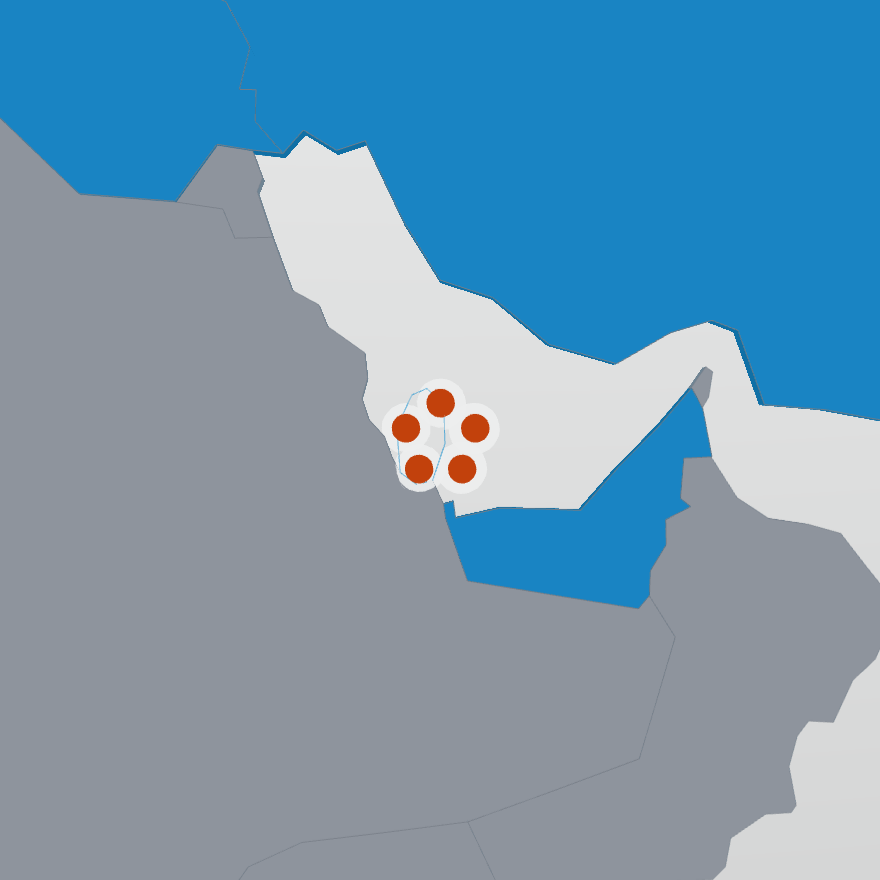
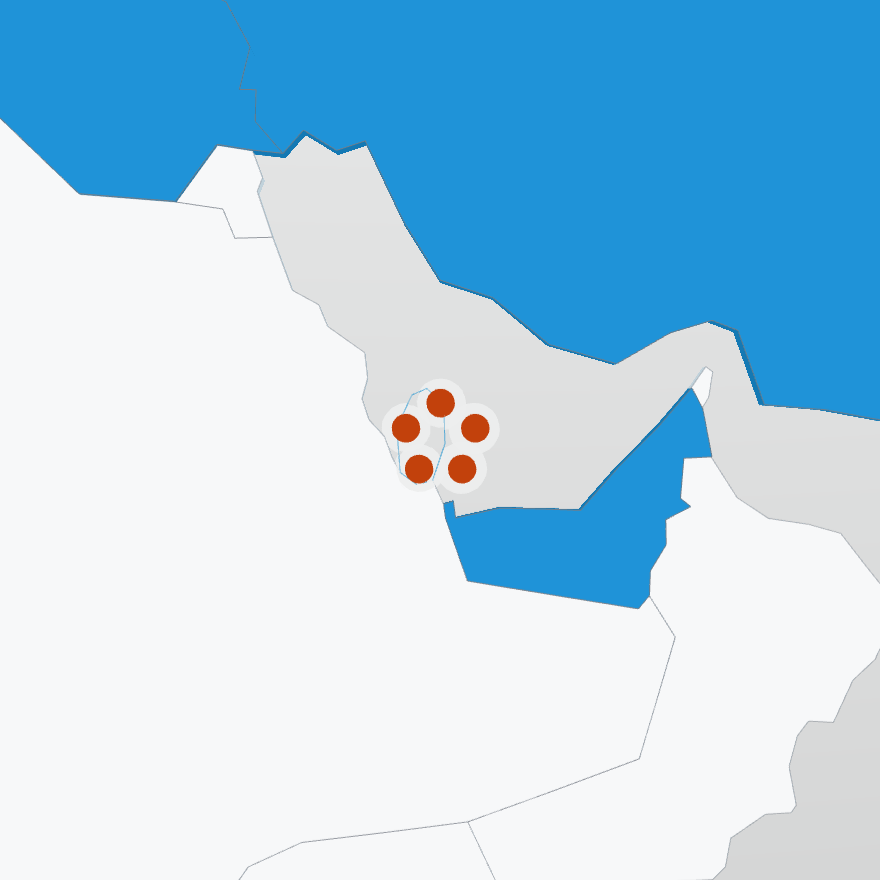
Fix what the light ground broke in the globe
One and two studies read as zero because the scale separated them from no data
by hue and not by lightness. Land the corpus does not reach was a mid grey at
L* 61 and one study was a mid blue at L* 53: eight points apart, so at the size
a country is drawn, or for anyone whose colour vision is reduced, they were the
same thing. Land is now near the page at L* 97, thirty nine points clear of the
lightest fill, and its shape is carried by the polygon stroke rather than by
the fill. tests/palette.py checks that ordering and that gap rather than
checking the fill against the page, which was the wrong question.

The weight now maps one study to the lightest blue and the corpus maximum to
the darkest. Under log1p the thin end of the corpus, where most countries sit,
was compressed into the middle of the scale and one study landed a fifth of the
way along it.

That also answers what the loud element was. It was not the ocean: it was the
unlit land, a mid grey covering most of the map. It recedes now and the blue is
the only weight left.

The two field list lines are gone from section five. They are the field lists
the corpus table and the record page are built from, a specification for a
component rather than prose, and they were being printed as two paragraphs of
middots. tests/homepage.py carries them in NOT_RENDERED with the other specs.

The three partners with no headshot get their initials in the same frame,
[…]

diff --git a/components/GlobeStage.tsx b/components/GlobeStage.tsx
@@ -62,6 +62,19 @@ function serverMode(): Mode {
 /** Opacity and a short lift. Both compositor properties, so nothing reflows. */
 function fade(el: HTMLElement | null, opacity: number, lift: number) {
   if (!el) return
+  /*
+    Only passages that are actually on screen are in the document at all. A
+    passage held at zero opacity was leaving a card shaped hole in the globe
+    behind it: its layer sits over the WebGL canvas and the rectangle underneath
+    is not repainted. Zero opacity does not release that layer, nor does
+    visibility hidden, nor display none, so the element is unmounted instead.
+    On the old dark ground the hole showed the page, which was near black, so
+    nobody saw it; it became obvious the moment the page turned white.
+
+    Unmounting is a React render, not a style write, so it happens when a
+    passage crosses in or out and not on every frame. Because passages leave
+    layout, no two share a stacked box: they are positioned singly.
+  */
   el.style.opacity = opacity.toFixed(3)
   el.style.transform = `translate3d(0, ${lift.toFixed(2)}px, 0)`
 }
@@ -101,7 +114,7 @@ const PASSAGES: Passage[] = [
     at: 'bottom-16 right-12 w-[22ch] text-right',
   },
   { key: 'descent', in: [0.5, 0.56], out: null, at: 'bottom-10 right-14 w-[34ch] text-right' },
-  { key: 'nodes', in: [0.82, 0.88], out: null, at: 'bottom-10 right-14 w-[34ch] text-right' },
+  { key: 'nodes', in: [0.82, 0.88], out: null, at: 'bottom-[9.5rem] right-14 w-[34ch] text-right' },
 ]
 
 /*
@@ -153,17 +166,37 @@ export default function GlobeStage({ children }: { children: React.ReactNode }) 
   const handedOver = pastRelease || entered
   /** The country whose records are open beside the globe. */
   const [selected, setSelected] = useState<string | null>(null)
+  /** Which passages are on screen. See the note on fade above. */
+  const [live, setLive] = useState<boolean[]>(() => PASSAGES.map(() => false))
+  const liveRef = useRef<boolean[]>(PASSAGES.map(() => false))
+  /*
+    The painter, kept where the effect below can reach it. A passage that has
+    just been mounted has never been painted, and paint only runs on a scroll
+    update, so without re applying it here a passage that came back would sit at
+    the zero opacity it was rendered with until the reader moved again.
+  */
+  const paintRef = useRef<((p: number) => void) | null>(null)
 
   useEffect(() => {
     if (mode === 'unknown' || mode === 'static') return
 
-    const paint = (p: number) => {
-      PASSAGES.forEach((passage, i) => {
+    const paint: (p: number) => void = (p) => {
+      let changed = false
+      const next = PASSAGES.map((passage, i) => {
         const arrived = easeOut(span(p, passage.in[0], passage.in[1]))
         const gone = passage.out ? span(p, passage.out[0], passage.out[1]) : 0
-        fade(passages.current[i], arrived * (1 - gone), (1 - arrived) * 12)
+        const o = arrived * (1 - gone)
+        fade(passages.current[i], o, (1 - arrived) * 12)
+        const on = o > 0.005
+        if (on !== liveRef.current[i]) changed = true
+        return on
       })
+      if (changed) {
+        liveRef.current = next
+        setLive(next)
+      }
     }
+    paintRef.current = paint
 
     // Capture mode holds the last frame of the argument and nothing else.
     if (mode === 'still') {
@@ -224,6 +257,11 @@ export default function GlobeStage({ children }: { children: React.ReactNode }) 
       lenis.destroy()
     }
   }, [mode])
+
+  // Newly mounted passages have never been painted. See paintRef above.
+  useEffect(() => {
+    paintRef.current?.(progress.current)
+  }, [live])
 
   /*
     The passages belong to the argument and not to what comes after it. They are
@@ -356,7 +394,8 @@ export default function GlobeStage({ children }: { children: React.ReactNode }) 
         >
           {SLOTS.map((slot) => (
             <div key={slot.at} className={`absolute flex flex-col gap-6 ${slot.at}`}>
-              {slot.items.map((passage) => (
+              {slot.items.map((passage) =>
+                !live[PASSAGES.indexOf(passage)] ? null : (
                 <div
                   key={passage.key}
                   ref={(el) => {
@@ -368,7 +407,8 @@ export default function GlobeStage({ children }: { children: React.ReactNode }) 
                 >
                   {body(passage.key)}
                 </div>
-              ))}
+              )
+              )}
             </div>
           ))}
         </div>

diff --git a/app/page.tsx b/app/page.tsx
@@ -12,6 +12,24 @@ const H2 = 'text-[2rem] leading-tight font-semibold tracking-tight'
 // hero metadata line and the team labels carry names and titles.
 const LABEL = 'font-mono text-[0.8rem] tracking-wide text-ink-muted'
 
+/**
+ * Initials for a person with no headshot. Honorifics are dropped, then the
+ * first letter of the given name and of the last name part, so "H.E. Dr.
+ * Abdulaziz Al Horr" gives AH rather than HD.
+ */
+const HONORIFICS = new Set(['dr', 'mr', 'ms', 'mrs', 'prof', 'he', 'h.e', 'eng'])
+
+function initials(name: string) {
+  const parts = name
+    .split(/\s+/)
+    .map((part) => part.replace(/\.$/, ''))
+    .filter((part) => part && !HONORIFICS.has(part.toLowerCase().replace(/\./g, '')))
+  if (parts.length === 0) return ''
+  const first = parts[0][0]
+  const last = parts.length > 1 ? parts[parts.length - 1][0] : ''
+  return (first + last).toUpperCase()
+}
+
 /** Splits a middot separated line from the copy into its parts. Adds no words. */
 function parts(line: string) {
   return line.split('·').map((s) => s.trim()).filter(Boolean)
@@ -282,15 +300,13 @@ function CorpusEvidence() {
         detail={home.nav.corpusLink.detail}
       />
 
-      {/* Rendered as the literal lines from the copy, middots included. */}
-      <div className="mt-16 grid border-t border-l border-rule md:grid-cols-2">
-        <p className="border-r border-b border-rule bg-surface-raised p-6 text-[0.9rem] leading-relaxed text-ink-muted">
-          {c.filterLabels}
-        </p>
-        <p className="border-r border-b border-rule bg-surface-raised p-6 text-[0.9rem] leading-relaxed text-ink-muted">
-          {c.recordDetailFields}
-        </p>
-      </div>
+      {/*
+        `corpus.filterLabels` and `corpus.recordDetailFields` are not rendered.
+        They are the field lists the corpus table and the record page are built
+        from, which is a specification for a component rather than prose for a
+        reader, and they were being printed as two paragraphs of middots.
+        tests/homepage.py carries them in NOT_RENDERED with the other specs.
+      */}
     </div>
   )
 }
@@ -385,7 +401,7 @@ function Team() {
 function Person({ person }: { person: { name: string; role: string; image: string } }) {
   return (
     <li className="flex gap-4 border-r border-b border-rule bg-surface-raised p-6">
-      <div className="size-24 shrink-0 overflow-hidden border border-rule bg-surface">
+      <div className="flex size-24 shrink-0 items-center justify-center overflow-hidden border border-rule bg-surface">
         {person.image ? (
           // A plain img rather than next/image. These are 96px avatars from
           // local files, so the optimizer buys little, and its lazy loading and
@@ -399,7 +415,17 @@ function Person({ person }: { person: { name: string; role: string; image: strin
             decoding="async"
             className="h-full w-full object-cover object-[center_28%] [filter:var(--ag-portrait-filter)]"
           />
-        ) : null}
+        ) : (
+          /*
+            Three partners have supplied no headshot. The frame is drawn either
+            way so the grid does not go ragged, and it carries their initials
+            rather than nothing, which read as a loading failure. Hidden from
+            assistive technology: the name is the next thing in the card.
+          */
+          <span aria-hidden="true" className="text-[1.25rem] font-medium text-ink-muted">
+            {initials(person.name)}
+          </span>
+        )}
       </div>
       <div className="min-w-0">
         <p className="text-[1.25rem] font-semibold">{person.name}</p>

diff --git a/components/Globe.tsx b/components/Globe.tsx
@@ -72,7 +72,14 @@ interface CountryDatum {
   code: string | null
   name: string
   count: number
-  /** Fill weight, 0 to 1, on a log scale across the corpus range. */
+  /**
+   * Fill weight, 0 to 1, on a log scale across the corpus range.
+   *
+   * One study is 0 and the corpus maximum is 1, so the lightest blue means one
+   * study rather than meaning a fifth of the way along. Under log1p the thin
+   * end of the corpus, which is where most countries sit, was compressed into
+   * the middle of the scale.
+   */
   weight: number
   geometry: unknown
   /** Roughly where to point the camera to bring this country into frame. */
@@ -283,7 +290,7 @@ function buildCountries(): { data: CountryDatum[]; unmatched: string[] } {
       code,
       name: String(f.properties.name ?? ''),
       count,
-      weight: count > 0 ? Math.log1p(count) / Math.log1p(MAX) : 0,
+      weight: count > 1 ? Math.log(count) / Math.log(MAX) : 0,
       geometry: f.geometry,
       centre,
       reach: reachOf(f.geometry, centre),

diff --git a/app/globals.css b/app/globals.css
@@ -38,9 +38,15 @@
   */
   --ag-globe-fill-min: #1f93d8;
   --ag-globe-fill-max: #004a70;
-  /* Land the corpus does not reach. Reads as land, never as evidence, and
-     lighter than every country that does, so the scale still runs one way. */
-  --ag-globe-land: #8e949d;
+  /*
+    Land the corpus does not reach. Near the page, so it recedes and the data is
+    the only weight on the map. Its shape is carried by the polygon stroke,
+    which clears 3:1, not by the fill: a fill dark enough to clear 3:1 on its
+    own was a mid grey, and a mid grey and a mid blue are the same lightness, so
+    a country holding one study was separated from a country holding none by
+    hue alone. That is what made one and two studies read as zero.
+  */
+  --ag-globe-land: #f7f8f9;
 
   /* Type */
   --ag-font-heading: var(--font-roboto), Arial, sans-serif;

diff --git a/tests/palette.py b/tests/palette.py
@@ -143,7 +143,7 @@ def main():
         notes.append(f"  {name:<22} {t[name]:<9} {'   '.join(ratios)}")
 
     # 2. both ends of the polygon fill scale, against the page
-    for name in ("--ag-globe-fill-min", "--ag-globe-fill-max", "--ag-globe-land"):
+    for name in ("--ag-globe-fill-min", "--ag-globe-fill-max"):
         c = rgb(t[name])
         r = contrast(c, surface)
         notes.append(f"  {name:<22} {t[name]:<9} surface {r:.2f}:1")
@@ -152,6 +152,32 @@ def main():
                 f"{name} is {r:.2f}:1 on the surface, so a country drawn at that "
                 f"end of the scale is under the {NON_TEXT_MIN}:1 non text minimum"
             )
+
+    # 2b. Land the corpus does not reach is deliberately near the page, so that
+    #     lightness rather than hue separates a country holding no studies from
+    #     one holding a single study. Its fill is therefore not what has to clear
+    #     3:1; its outline is, and the outline is --ag-rule, already checked
+    #     above. What does have to hold is the ordering: no data has to be
+    #     lighter than every country the corpus reaches, or the scale runs two
+    #     ways at once.
+    land = rgb(t["--ag-globe-land"])
+    lightest = rgb(t["--ag-globe-fill-min"])
+    notes.append(
+        f"  {'--ag-globe-land':<22} {t['--ag-globe-land']:<9} "
+        f"surface {contrast(land, surface):.2f}:1   L* {lab(land)[0]:.1f} "
+        f"against the lightest fill L* {lab(lightest)[0]:.1f}"
+    )
+    if lab(land)[0] <= lab(lightest)[0]:
+        problems.append(
+            "--ag-globe-land is not lighter than --ag-globe-fill-min, so a country "
+            "holding no studies is as dark as one holding a study"
+        )
+    if lab(land)[0] - lab(lightest)[0] < 15:
+        problems.append(
+            f"--ag-globe-land is only {lab(land)[0] - lab(lightest)[0]:.1f} L* lighter "
+            "than the lightest fill, which is not enough to read as a different "
+            "category without relying on hue"
+        )
 
     # 3. the two globe colours, for a dichromat
     a, b = rgb(t["--ag-globe-existing"]), rgb(t["--ag-globe-project"])

diff --git a/tests/globe contrast.py b/tests/globe contrast.py
@@ -40,7 +40,7 @@ GEOM = """() => {
            end: Math.round(c.bottom + window.scrollY - window.innerHeight) };
 }"""
 
-BOXES = """() => {
+BOXES = r"""() => {
   const out = [];
   for (const el of document.querySelectorAll('[data-passage]')) {
     if (Number(getComputedStyle(el).opacity) < 0.5) continue;
@@ -61,7 +61,7 @@ BOXES = """() => {
 
 # Brightest pixel inside each passage box. The text itself is hidden for the
 # screenshot, so what is measured is only what sits behind it.
-SAMPLE = """async ([shot, boxes]) => {
+SAMPLE = r"""async ([shot, boxes]) => {
   const img = new Image();
   await new Promise((ok, no) => { img.onload = ok; img.onerror = no; img.src = shot; });
   const cv = document.createElement('canvas');

diff --git a/tests/homepage.py b/tests/homepage.py
@@ -26,6 +26,9 @@ SHOTS = os.path.join(ROOT, "tests", "screenshots")
 # They live in the content file for the components that will need them.
 NOT_RENDERED = {
     "corpus.emptyState",
+    # Field lists for the corpus table and the record page, not prose.
+    "corpus.filterLabels",
+    "corpus.recordDetailFields",
     "outputs.emptyState",
     "events.emptyState",
     "events.eventCardFields",
